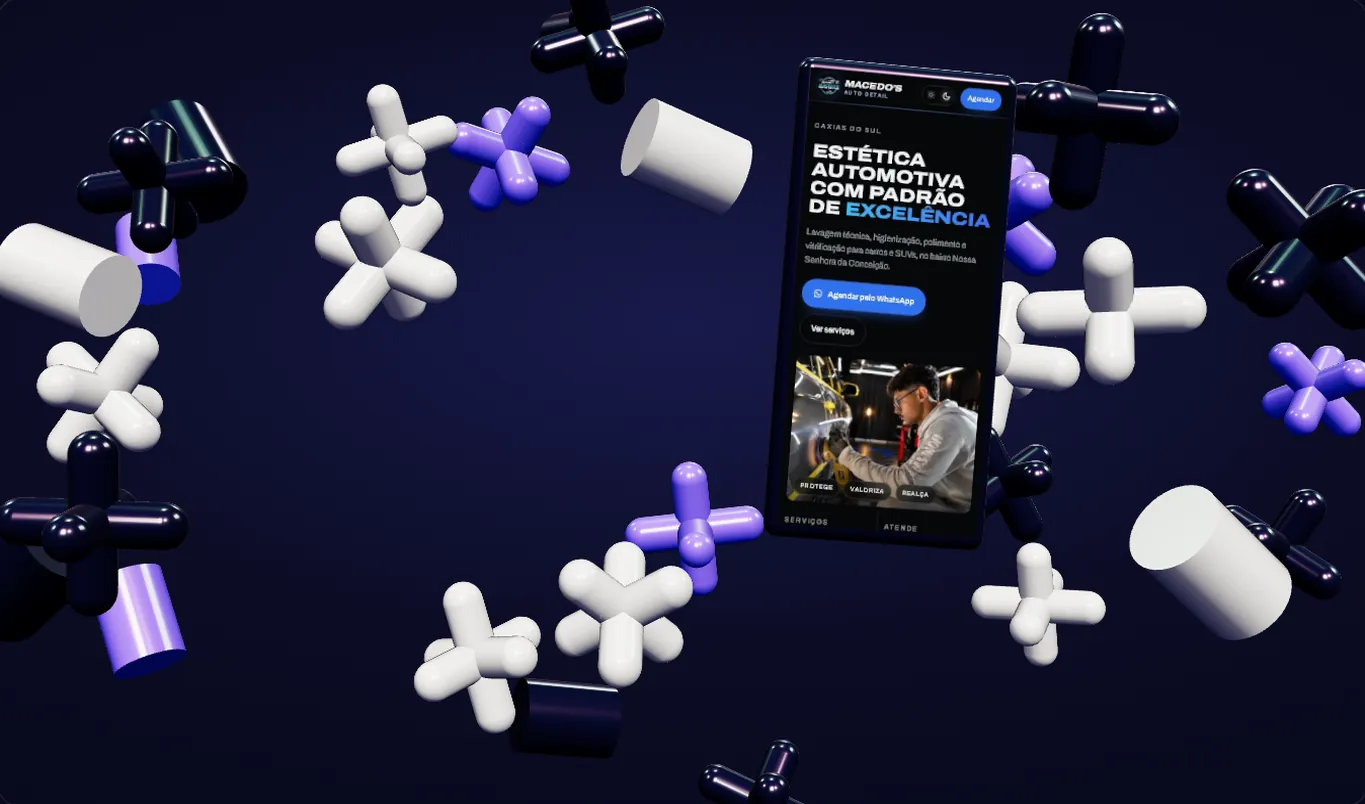
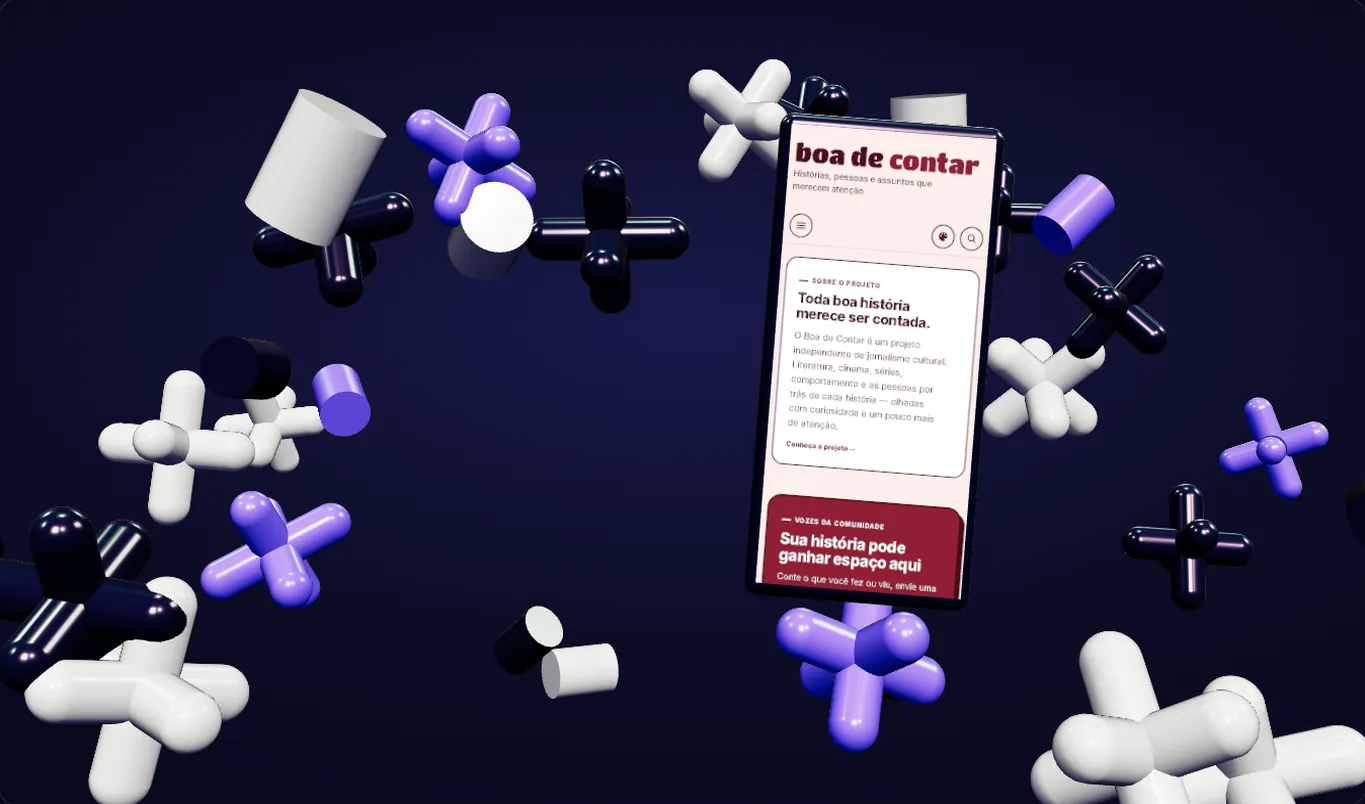
feat: intercala Macedo's e Boa de Contar; antes feio no Antes|Depois e no capitulo Hoje; cena 3D com o Boa de Contar

diff --git a/index.html b/index.html
@@ -16,7 +16,7 @@
 <link rel="preload" as="style" href="https://fonts.googleapis.com/css2?family=Archivo:wdth,wght@125,700;125,800&family=Sen:wght@400;500;700&family=Mrs+Saint+Delafield&display=swap">
 <link rel="stylesheet" href="https://fonts.googleapis.com/css2?family=Archivo:wdth,wght@125,700;125,800&family=Sen:wght@400;500;700&family=Mrs+Saint+Delafield&display=swap" media="print" onload="this.media='all'">
 <noscript><link rel="stylesheet" href="https://fonts.googleapis.com/css2?family=Archivo:wdth,wght@125,700;125,800&family=Sen:wght@400;500;700&family=Mrs+Saint+Delafield&display=swap"></noscript>
-<link rel="stylesheet" href="css/v8.css?v=1795560000">
+<link rel="stylesheet" href="css/v8.css?v=1795580000">
 <script type="importmap">{ "imports": { "three": "./assets/vendor/three.module.min.js" } }</script>
 <script>document.documentElement.classList.add('js')</script>
 </head>
@@ -58,8 +58,8 @@
       <img src="assets/img/macedos-farol.webp" width="1440" height="900" alt="Farol antes e depois no site da Macedo's Auto Detail, cliente real" fetchpriority="high">
     </figure>
     <svg class="sign sign--hero" viewBox="0 0 600 200" aria-hidden="true" data-sign data-sign-hero><text x="300" y="140" text-anchor="middle">Vitrine</text></svg>
-    <a class="me__float me__float--a" href="https://macedos-auto-detail.pages.dev" target="_blank" rel="noopener" data-float="0.6" data-speed="0.12"><img src="assets/img/macedos-servicos-720.webp" width="720" height="450" alt="Site da Macedo's Auto Detail"><span class="tiny">Macedo's · no ar ↗</span></a>
-    <a class="me__float me__float--c" href="https://macedos-auto-detail.pages.dev" target="_blank" rel="noopener" data-float="0.9" data-speed="0.2"><img src="assets/img/macedos-celular.webp" width="390" height="844" alt="Site da Macedo's Auto Detail no celular"><span class="tiny">No celular ↗</span></a>
+    <a class="me__float me__float--a" href="exemplos/boa-de-contar/" data-float="0.6" data-speed="0.12"><img src="assets/img/boa-de-contar-720.webp" width="720" height="450" alt="Site do Boa de Contar"><span class="tiny">Boa de Contar ↗</span></a>
+    <a class="me__float me__float--c" href="exemplos/boa-de-contar/" data-float="0.9" data-speed="0.2"><img src="assets/img/boa-de-contar-celular.webp" width="390" height="844" alt="Site do Boa de Contar no celular"><span class="tiny">No celular ↗</span></a>
     <div class="me__bottom">
       <h1 id="me-h" class="me__title" data-split>Sites bonitos e rápidos para pequenas empresas.</h1>
       <div class="me__cta">
@@ -73,7 +73,7 @@
   <section class="hero" aria-labelledby="hero-h">
     <div class="hero__stage" data-stage>
       <canvas class="hero__canvas" data-canvas aria-hidden="true"></canvas>
-      <picture class="hero__poster"><source media="(max-width: 700px)" srcset="assets/img/hero-cena-mob.webp?v=2"><img src="assets/img/hero-cena.webp?v=2" width="1365" height="804" alt="Celular com o site da Macedo's flutuando entre peças 3D holográficas" fetchpriority="high"></picture>
+      <picture class="hero__poster"><source media="(max-width: 700px)" srcset="assets/img/hero-cena-mob.webp?v=3"><img src="assets/img/hero-cena.webp?v=3" width="1365" height="804" alt="Celular com o site do Boa de Contar flutuando entre peças 3D holográficas" fetchpriority="high"></picture>
       <div class="hero__over">
         <h2 id="hero-h" class="hero__title" data-split>Seu site novo, pronto antes de você pagar.</h2>
         <div class="hero__meta">
@@ -88,11 +88,11 @@
   <section class="chap chap--antes" aria-labelledby="c1-h">
     <div class="chap__text">
       <p class="tiny">01 · Hoje</p>
-      <h2 id="c1-h" data-split>O cliente procura você e acha só um Instagram.</h2>
-      <p>Sem site, sem horário claro, sem preço. Ele fecha a aba e chama o concorrente.</p>
+      <h2 id="c1-h" data-split>O cliente procura você e acha um site parado no tempo.</h2>
+      <p>Letra difícil, foto quebrada, sem preço. Ele fecha a aba e chama o concorrente.</p>
     </div>
-    <div class="chap__phone" data-chap><img src="assets/img/macedos-celular.webp" width="390" height="844" alt="" loading="lazy"></div>
-    <span class="chap__stamp" aria-hidden="true" data-chap-extra>Sem site</span>
+    <div class="chap__phone" data-chap><img src="assets/img/antes-feio.webp" width="390" height="844" alt="" loading="lazy"></div>
+    <span class="chap__stamp" aria-hidden="true" data-chap-extra>Desatualizado</span>
   </section>
 
   <!-- Antes | Depois: as palavras se afastam e o celular sai do preto e branco para a cor (seção presa) -->
@@ -102,8 +102,8 @@
       <h2 id="ad-h" class="sr">Antes e depois do site</h2>
       <span class="ad__word" aria-hidden="true" data-ad-l>Antes</span>
       <figure class="ad__phone">
-        <img class="ad__before" src="assets/img/macedos-celular.webp" width="390" height="844" alt="O site antes: sem cor e sem vida" loading="lazy">
-        <img class="ad__after" src="assets/img/macedos-celular.webp" width="390" height="844" alt="O site depois, com o novo visual" loading="lazy" data-ad-after>
+        <img class="ad__before" src="assets/img/antes-feio.webp" width="390" height="844" alt="Antes: um site antigo, com letra difícil de ler, aviso de site em construção e imagem quebrada" loading="lazy">
+        <img class="ad__after" src="assets/img/macedos-celular.webp" width="390" height="844" alt="Depois: o site da Macedo's Auto Detail" loading="lazy" data-ad-after>
       </figure>
       <span class="ad__word" aria-hidden="true" data-ad-r>Depois</span>
       <p class="tiny ad__cap">Role para ver o site mudar</p>
@@ -222,7 +222,7 @@
   <section class="about" id="sobre" aria-labelledby="about-h">
     <canvas class="topo" aria-hidden="true" data-topo></canvas>
     <figure class="about__photo" data-rise>
-      <img src="assets/img/macedos-home.webp" width="1440" height="900" alt="Abertura do site da Macedo's Auto Detail, cliente real" loading="lazy">
+      <a href="exemplos/boa-de-contar/"><img src="assets/img/boa-de-contar.webp" width="1440" height="900" alt="Site do Boa de Contar, o primeiro que eu fiz" loading="lazy"></a>
     </figure>
     <div class="about__text">
       <p class="tiny">Quem está por trás</p>
@@ -288,7 +288,7 @@
   // A cena 3D só carrega em computador, depois que a página terminou; no celular fica a imagem dela.
   const big = matchMedia("(pointer: fine) and (min-width: 900px)").matches && (navigator.hardwareConcurrency || 4) >= 4;
   const later = (fn) => (window.requestIdleCallback ? requestIdleCallback(fn, { timeout: 2500 }) : setTimeout(fn, 1200));
-  if (big) addEventListener("load", () => later(() => import("./js/cena.js?v=1795562000")), { once: true });
+  if (big) addEventListener("load", () => later(() => import("./js/cena.js?v=1795580000")), { once: true });
 </script>
 <script type="module" src="js/analise.js?v=1794933840"></script>
 </body>

diff --git a/src/index.html b/src/index.html
@@ -17,7 +17,7 @@
 <link rel="preload" as="style" href="https://fonts.googleapis.com/css2?family=Archivo:wdth,wght@125,700;125,800&family=Sen:wght@400;500;700&family=Mrs+Saint+Delafield&display=swap">
 <link rel="stylesheet" href="https://fonts.googleapis.com/css2?family=Archivo:wdth,wght@125,700;125,800&family=Sen:wght@400;500;700&family=Mrs+Saint+Delafield&display=swap" media="print" onload="this.media='all'">
 <noscript><link rel="stylesheet" href="https://fonts.googleapis.com/css2?family=Archivo:wdth,wght@125,700;125,800&family=Sen:wght@400;500;700&family=Mrs+Saint+Delafield&display=swap"></noscript>
-<link rel="stylesheet" href="css/v8.css?v=1795560000">
+<link rel="stylesheet" href="css/v8.css?v=1795580000">
 <script type="importmap">{ "imports": { "three": "./assets/vendor/three.module.min.js" } }</script>
 <script>document.documentElement.classList.add('js')</script>
 </head>
@@ -59,8 +59,8 @@
       <img src="assets/img/macedos-farol.webp" width="1440" height="900" alt="Farol antes e depois no site da Macedo's Auto Detail, cliente real" fetchpriority="high">
     </figure>
     <svg class="sign sign--hero" viewBox="0 0 600 200" aria-hidden="true" data-sign data-sign-hero><text x="300" y="140" text-anchor="middle">Vitrine</text></svg>
-    <a class="me__float me__float--a" href="https://macedos-auto-detail.pages.dev" target="_blank" rel="noopener" data-float="0.6" data-speed="0.12"><img src="assets/img/macedos-servicos-720.webp" width="720" height="450" alt="Site da Macedo's Auto Detail"><span class="tiny">Macedo's · no ar ↗</span></a>
-    <a class="me__float me__float--c" href="https://macedos-auto-detail.pages.dev" target="_blank" rel="noopener" data-float="0.9" data-speed="0.2"><img src="assets/img/macedos-celular.webp" width="390" height="844" alt="Site da Macedo's Auto Detail no celular"><span class="tiny">No celular ↗</span></a>
+    <a class="me__float me__float--a" href="exemplos/boa-de-contar/" data-float="0.6" data-speed="0.12"><img src="assets/img/boa-de-contar-720.webp" width="720" height="450" alt="Site do Boa de Contar"><span class="tiny">Boa de Contar ↗</span></a>
+    <a class="me__float me__float--c" href="exemplos/boa-de-contar/" data-float="0.9" data-speed="0.2"><img src="assets/img/boa-de-contar-celular.webp" width="390" height="844" alt="Site do Boa de Contar no celular"><span class="tiny">No celular ↗</span></a>
     <div class="me__bottom">
       <h1 id="me-h" class="me__title" data-split>Sites bonitos e rápidos para pequenas empresas.</h1>
       <div class="me__cta">
@@ -74,7 +74,7 @@
   <section class="hero" aria-labelledby="hero-h">
     <div class="hero__stage" data-stage>
       <canvas class="hero__canvas" data-canvas aria-hidden="true"></canvas>
-      <picture class="hero__poster"><source media="(max-width: 700px)" srcset="assets/img/hero-cena-mob.webp?v=2"><img src="assets/img/hero-cena.webp?v=2" width="1365" height="804" alt="Celular com o site da Macedo's flutuando entre peças 3D holográficas" fetchpriority="high"></picture>
+      <picture class="hero__poster"><source media="(max-width: 700px)" srcset="assets/img/hero-cena-mob.webp?v=3"><img src="assets/img/hero-cena.webp?v=3" width="1365" height="804" alt="Celular com o site do Boa de Contar flutuando entre peças 3D holográficas" fetchpriority="high"></picture>
       <div class="hero__over">
         <h2 id="hero-h" class="hero__title" data-split>Seu site novo, pronto antes de você pagar.</h2>
         <div class="hero__meta">
@@ -89,11 +89,11 @@
   <section class="chap chap--antes" aria-labelledby="c1-h">
     <div class="chap__text">
       <p class="tiny">01 · Hoje</p>
-      <h2 id="c1-h" data-split>O cliente procura você e acha só um Instagram.</h2>
-      <p>Sem site, sem horário claro, sem preço. Ele fecha a aba e chama o concorrente.</p>
+      <h2 id="c1-h" data-split>O cliente procura você e acha um site parado no tempo.</h2>
+      <p>Letra difícil, foto quebrada, sem preço. Ele fecha a aba e chama o concorrente.</p>
     </div>
-    <div class="chap__phone" data-chap><img src="assets/img/macedos-celular.webp" width="390" height="844" alt="" loading="lazy"></div>
-    <span class="chap__stamp" aria-hidden="true" data-chap-extra>Sem site</span>
+    <div class="chap__phone" data-chap><img src="assets/img/antes-feio.webp" width="390" height="844" alt="" loading="lazy"></div>
+    <span class="chap__stamp" aria-hidden="true" data-chap-extra>Desatualizado</span>
   </section>
 
   <!-- Antes | Depois: as palavras se afastam e o celular sai do preto e branco para a cor (seção presa) -->
@@ -103,8 +103,8 @@
       <h2 id="ad-h" class="sr">Antes e depois do site</h2>
       <span class="ad__word" aria-hidden="true" data-ad-l>Antes</span>
       <figure class="ad__phone">
-        <img class="ad__before" src="assets/img/macedos-celular.webp" width="390" height="844" alt="O site antes: sem cor e sem vida" loading="lazy">
-        <img class="ad__after" src="assets/img/macedos-celular.webp" width="390" height="844" alt="O site depois, com o novo visual" loading="lazy" data-ad-after>
+        <img class="ad__before" src="assets/img/antes-feio.webp" width="390" height="844" alt="Antes: um site antigo, com letra difícil de ler, aviso de site em construção e imagem quebrada" loading="lazy">
+        <img class="ad__after" src="assets/img/macedos-celular.webp" width="390" height="844" alt="Depois: o site da Macedo's Auto Detail" loading="lazy" data-ad-after>
       </figure>
       <span class="ad__word" aria-hidden="true" data-ad-r>Depois</span>
       <p class="tiny ad__cap">Role para ver o site mudar</p>
@@ -204,7 +204,7 @@
   <section class="about" id="sobre" aria-labelledby="about-h">
     <canvas class="topo" aria-hidden="true" data-topo></canvas>
     <figure class="about__photo" data-rise>
-      <img src="assets/img/macedos-home.webp" width="1440" height="900" alt="Abertura do site da Macedo's Auto Detail, cliente real" loading="lazy">
+      <a href="exemplos/boa-de-contar/"><img src="assets/img/boa-de-contar.webp" width="1440" height="900" alt="Site do Boa de Contar, o primeiro que eu fiz" loading="lazy"></a>
     </figure>
     <div class="about__text">
       <p class="tiny">{{sobre.rotulo}}</p>
@@ -268,7 +268,7 @@
   // A cena 3D só carrega em computador, depois que a página terminou; no celular fica a imagem dela.
   const big = matchMedia("(pointer: fine) and (min-width: 900px)").matches && (navigator.hardwareConcurrency || 4) >= 4;
   const later = (fn) => (window.requestIdleCallback ? requestIdleCallback(fn, { timeout: 2500 }) : setTimeout(fn, 1200));
-  if (big) addEventListener("load", () => later(() => import("./js/cena.js?v=1795562000")), { once: true });
+  if (big) addEventListener("load", () => later(() => import("./js/cena.js?v=1795580000")), { once: true });
 </script>
 <script type="module" src="js/analise.js?v=1794933840"></script>
 </body>

diff --git a/css/v8.css b/css/v8.css
@@ -150,7 +150,7 @@ main > section:first-child { border-top: 0; }
 .chap h2 { font-size: clamp(30px, 4.4vw, 72px); line-height: 1.02; }
 .chap__text p:not(.tiny) { font-size: 18px; max-width: 40ch; color: var(--cream-2); }
 .chap__phone { position: relative; z-index: 1; grid-column: 8 / span 5; justify-self: center; width: clamp(190px, 20vw, 300px); aspect-ratio: 390 / 844; padding: 9px; border-radius: 42px; background: linear-gradient(145deg, #2b2c3a, #0b0c16 40%); box-shadow: 0 0 0 1.5px #333548 inset, 0 60px 90px -40px #000; transform: rotate(12deg); }
-.chap__phone img { width: 100%; height: 100%; object-fit: cover; object-position: top; border-radius: 34px; filter: grayscale(1) blur(1.5px) brightness(.8); }
+.chap__phone img { width: 100%; height: 100%; object-fit: cover; object-position: top; border-radius: 34px; }
 .chap__stamp { position: absolute; z-index: 3; right: 16%; top: 30%; padding: 10px 22px; border: 4px solid var(--red); border-radius: 10px; color: var(--red); font: 800 clamp(22px, 2.6vw, 40px)/1 var(--wide); font-stretch: 125%; text-transform: uppercase; transform: rotate(-14deg); }
 
 /* 4. Antes | Depois */
@@ -162,7 +162,7 @@ main > section:first-child { border-top: 0; }
 .ad__word[data-ad-r] { left: 50%; margin-left: clamp(118px, 12vw, 190px); color: var(--lime); }
 .ad__phone { margin: 0; width: clamp(190px, 19vw, 290px); aspect-ratio: 390 / 844; padding: 9px; border-radius: 42px; background: #0b0c16; box-shadow: 0 0 0 1.5px #333548 inset, 0 60px 100px -40px #000; }
 .ad__phone img { position: absolute; inset: 9px; width: calc(100% - 18px); height: calc(100% - 18px); object-fit: cover; object-position: top; border-radius: 34px; }
-.ad__before { filter: grayscale(1) blur(2px) brightness(.7); }
+.ad__before { filter: none; }
 .ad__after { clip-path: inset(100% 0 0 0); }
 .ad__cap { position: absolute !important; bottom: 34px; left: 50%; translate: -50% 0; }
 

diff --git a/js/cena.js b/js/cena.js
@@ -1,4 +1,4 @@
-// Cena 3D da abertura: peças holográficas e um celular com o site da Macedo's, num painel escuro.
+// Cena 3D da abertura: peças holográficas e um celular com o site do Boa de Contar, num painel escuro.
 // As peças voltam para o lugar como molas e fogem do mouse; o celular olha para o mouse.
 import * as THREE from 'three';
 import { RoundedBoxGeometry } from '../assets/vendor/RoundedBoxGeometry.js';
@@ -13,7 +13,7 @@ let released = document.documentElement.dataset.ready === '1';
 document.addEventListener('vitrine:ready', () => { released = true; }, { once: true });
 setTimeout(() => { released = true; }, 4000);
 
-const SCREENS = ['assets/img/macedos-celular.webp'];
+const SCREENS = ['assets/img/boa-de-contar-celular.webp'];
 // creme, marinho e violeta, com reflexo de arco-íris (iridescência), como a bolha holográfica da Panda
 const COLORS = { white: '#ece6d8', black: '#10122f', blue: '#6d5cff' };
 const IRIS = { iridescence: 1, iridescenceIOR: 1.35, iridescenceThicknessRange: [120, 720] };
